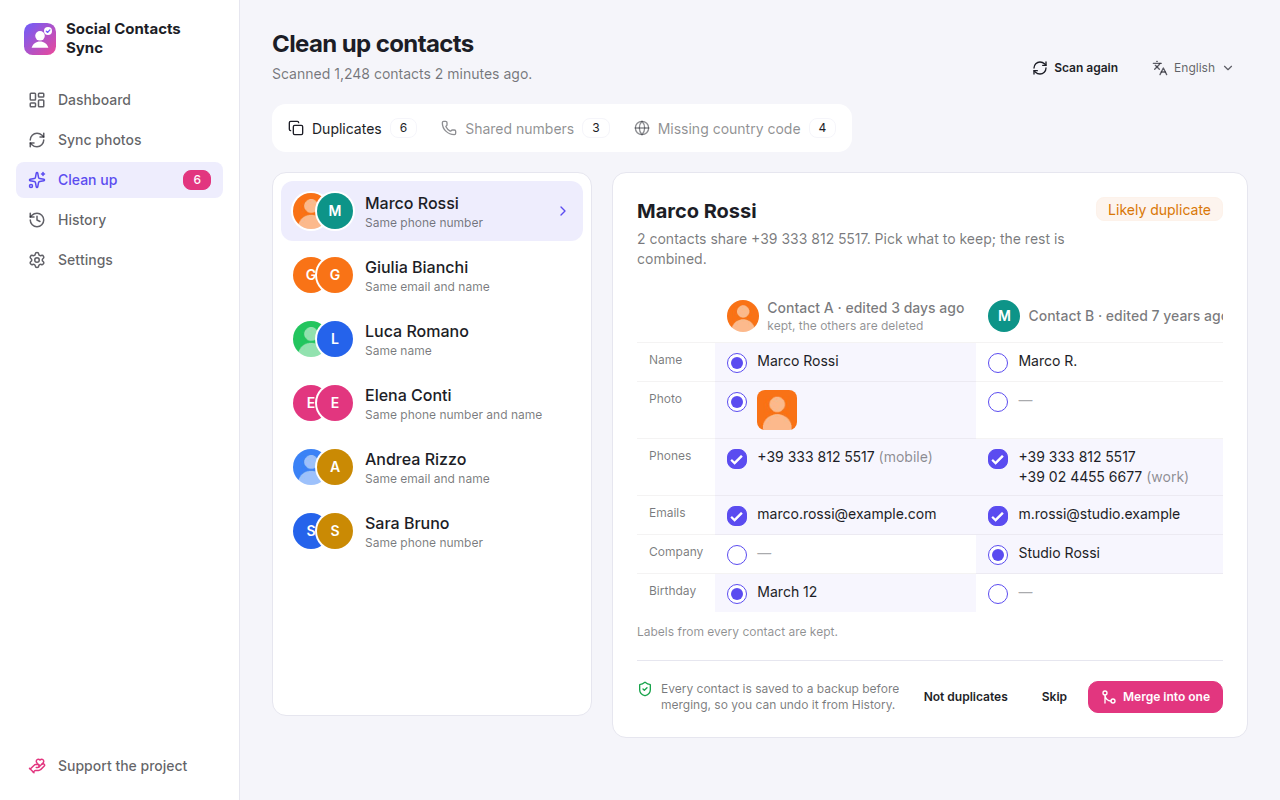
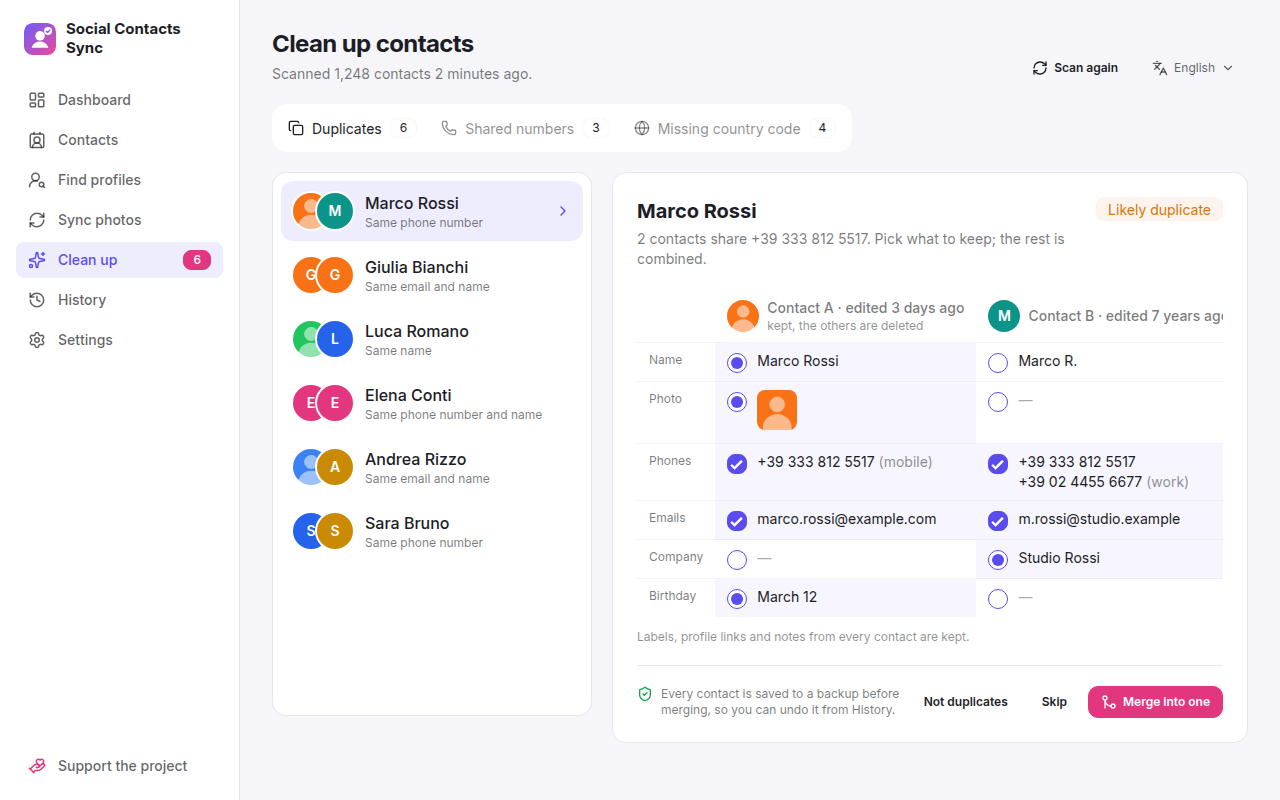
Update Social Contacts Sync to v1.3.2 with Find profiles and the Contacts page (#13)
Claude-Session: https://claude.ai/code/session_01YZdV8XTFsfbhe7gTvEQWwk

diff --git a/social-contacts-sync.html b/social-contacts-sync.html
@@ -6,14 +6,14 @@
     <title>Social Contacts Sync — Profile photos for Google Contacts · Carlo Ruggiero</title>
     <meta
       name="description"
-      content="Social Contacts Sync is a free, open-source desktop app that fills Google Contacts with your contacts' profile photos from WhatsApp, Telegram and Gravatar, and cleans up duplicates, shared numbers and missing country codes. For Windows, Linux and macOS."
+      content="Social Contacts Sync is a free, open-source desktop app that fills Google Contacts with your contacts' profile photos from WhatsApp, Telegram, Gravatar and their social profiles, finds those profiles for you, and cleans up duplicates, shared numbers and missing country codes. For Windows, Linux and macOS."
     />
     <meta name="theme-color" content="#bfc3bb" />
     <link rel="icon" type="image/svg+xml" href="social-contacts-sync.svg" />
     <meta property="og:title" content="Social Contacts Sync — Profile photos for Google Contacts" />
     <meta
       property="og:description"
-      content="A free, open-source desktop app that gives every Google contact a face, with photos from WhatsApp, Telegram and Gravatar, and tidies up duplicates on the way."
+      content="A free, open-source desktop app that gives every Google contact a face, with photos from WhatsApp, Telegram, Gravatar and their social profiles, and tidies up duplicates on the way."
     />
     <meta property="og:type" content="website" />
 
@@ -62,13 +62,13 @@
           <img class="mark" src="social-contacts-sync.svg" alt="" width="64" height="64" />
           <!-- One child: .state is a flex row, and a bare span would get the gap around it. -->
           <p class="state live">
-            <span>Shipping, v1.0.0. Open source.</span>
+            <span>Shipping, v1.3.2. Open source.</span>
           </p>
           <h1 class="display unfurl"><span>Social Contacts</span><span>Sync</span></h1>
           <p class="lede">
             Give every contact a face. A desktop app that fills Google Contacts with your contacts'
-            profile photos from WhatsApp, Telegram and Gravatar, and tidies up duplicates on the
-            way.
+            profile photos from WhatsApp, Telegram, Gravatar and their social profiles, and tidies
+            up duplicates on the way.
           </p>
           <div class="actions">
             <a
@@ -91,6 +91,11 @@
             all coloured circles with a letter. Social Contacts Sync matches each Google contact to
             its WhatsApp and Telegram accounts by phone number, and to Gravatar by email address,
             and puts the photo on the contact.
+          </p>
+          <p>
+            For the people who aren't on any of those, it can use the social profiles saved on a
+            contact, and it helps find them: it suggests Instagram, LinkedIn, Facebook, Bluesky,
+            Mastodon and GitHub profiles with the same name, and links the ones you confirm.
           </p>
           <p>
             It runs on your own computer: the app starts a small local server and opens it in its
@@ -122,8 +127,9 @@
             <div>
               <dt>Photos from your sources</dt>
               <dd>
-                WhatsApp and Telegram, matched by phone number, and Gravatar, matched by email, in
-                the order you choose. Telegram only reads the contacts you already have there.
+                WhatsApp and Telegram, matched by phone number, Gravatar, matched by email, and the
+                profile links saved on a contact, in the order you choose. Telegram only reads the
+                contacts you already have there.
               </dd>
             </div>
             <div>
@@ -138,6 +144,25 @@
               <dd>
                 Every sync keeps a report of what changed, with the photo before and after. Undo
                 one contact or the whole run, and export it as CSV.
+              </dd>
+            </div>
+            <div>
+              <dt>Find profiles</dt>
+              <dd>
+                Suggests each contact's social profiles from your own Instagram and LinkedIn data
+                exports and a public search on Bluesky, Mastodon and GitHub. Review them one by one
+                or as a list, and link several profiles to a contact at once. An experimental scan
+                of your own followers with your login is there too, off by default: it goes against
+                those sites' terms, and the app says so before it starts.
+              </dd>
+            </div>
+            <div>
+              <dt>Contacts</dt>
+              <dd>
+                Every Google contact in one list: edit every field, add, merge, label and delete
+                them, and upload photos by hand. A photo you upload is a placeholder until a sync
+                finds a real one, unless you keep it: a kept photo is never replaced, and the
+                contact can still be linked to its profiles.
               </dd>
             </div>
             <div>
@@ -182,6 +207,38 @@
             </figure>
             <figure>
               <img
+                src="assets/social-contacts-sync-find-profiles.png"
+                alt="Find profiles with a contact's suggested Instagram, LinkedIn and Bluesky profiles, each with a checkbox and a choice of whose photo to use"
+                loading="lazy"
+              />
+              <figcaption>Find profiles — tick the ones that are right, pick whose photo to use.</figcaption>
+            </figure>
+            <figure>
+              <img
+                src="assets/social-contacts-sync-find-profiles-sources.png"
+                alt="Find profiles sources: Instagram and LinkedIn data exports and a public search on Bluesky, Mastodon and GitHub, each with when it was last read"
+                loading="lazy"
+              />
+              <figcaption>Where the suggestions come from, and when each was last read.</figcaption>
+            </figure>
+            <figure>
+              <img
+                src="assets/social-contacts-sync-contacts.png"
+                alt="Contacts page with filters for contacts without a photo, with a placeholder or with a kept photo, and a list with bulk actions"
+                loading="lazy"
+              />
+              <figcaption>The Contacts page — the ones still without a photo come first.</figcaption>
+            </figure>
+            <figure>
+              <img
+                src="assets/social-contacts-sync-contact-edit.png"
+                alt="Contact editor with the photo, a Keep this photo switch, and every field of the contact"
+                loading="lazy"
+              />
+              <figcaption>Every field is editable, and a photo can be kept as it is.</figcaption>
+            </figure>
+            <figure>
+              <img
                 src="assets/social-contacts-sync-cleanup.png"
                 alt="Clean up page with a list of duplicate contacts and a merge table to pick each field"
                 loading="lazy"
@@ -222,6 +279,12 @@
               <td>Universal <code>.dmg</code></td>
             </tr>
           </table>
+          <p>
+            The installer and the AppImage download a new version by themselves and show how it's
+            going. When you close the app with one ready, it asks whether to install it now, and
+            can open the app again when it's done. Automatic downloads can be turned off in
+            Settings.
+          </p>
           <div class="note">
             <p>
               <strong>You bring your own Google project.</strong> Google asks every app that edits
@@ -244,8 +307,10 @@
             There is no Social Contacts Sync service: nothing reaches me. Your Google sign-in is
             stored encrypted with your system's keychain, and the app connects only to Google,
             WhatsApp Web, Telegram, Gravatar (which receives a hash of each email address, not the
-            address), and GitHub to check for updates. It can also run as a self-hosted web app,
-            from one Docker container.
+            address), the profile pages saved on your contacts, the public search of Bluesky,
+            Mastodon and GitHub when you run it, and GitHub to check for updates. What it finds
+            stays on your computer. It can also run as a self-hosted web app, from one Docker
+            container.
           </p>
         </section>
 

diff --git a/index.html b/index.html
@@ -319,7 +319,7 @@
             <img src="social-contacts-sync.svg" alt="" width="40" height="40" />
             <span class="name">Social Contacts Sync</span>
             <span class="what">Profile photos for Google Contacts, open source</span>
-            <span class="state live"><span>Shipping, v1.0.0</span></span>
+            <span class="state live"><span>Shipping, v1.3.2</span></span>
           </a>
           <a class="entry" href="planora.html" style="--accent: var(--planora)">
             <img src="planora.svg" alt="" width="40" height="40" />
@@ -411,9 +411,10 @@
             <h2>Social Contacts Sync</h2>
             <p>
               A free desktop app that fills Google Contacts with your contacts' profile photos from
-              WhatsApp, Telegram and Gravatar, with a report and undo for every sync. It also finds
-              duplicate contacts, numbers saved on different people and numbers without a country
-              code, and fixes them with a backup first.
+              WhatsApp, Telegram, Gravatar and their social profiles, with a report and undo for
+              every sync. It suggests the social profiles of your contacts and links the ones you
+              confirm, edits every contact in one list, and finds duplicates, numbers saved on
+              different people and numbers without a country code, with a backup first.
             </p>
             <p>
               Windows, Linux and macOS, running on your own computer. A fork of WhatsApp Contact Sync
@@ -448,6 +449,14 @@
                 loading="lazy"
               />
               <figcaption>Every sync has a report, and can be undone.</figcaption>
+            </figure>
+            <figure>
+              <img
+                src="assets/social-contacts-sync-find-profiles.png"
+                alt="Find profiles with a contact's suggested Instagram, LinkedIn and Bluesky profiles to link"
+                loading="lazy"
+              />
+              <figcaption>Find profiles suggests your contacts' social profiles to link.</figcaption>
             </figure>
             <figure>
               <img
